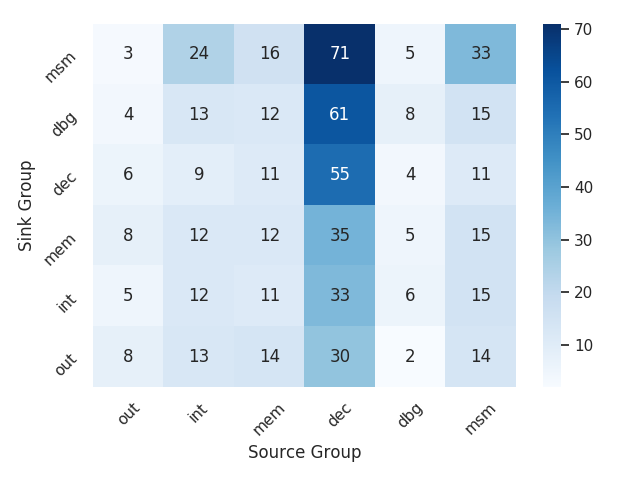
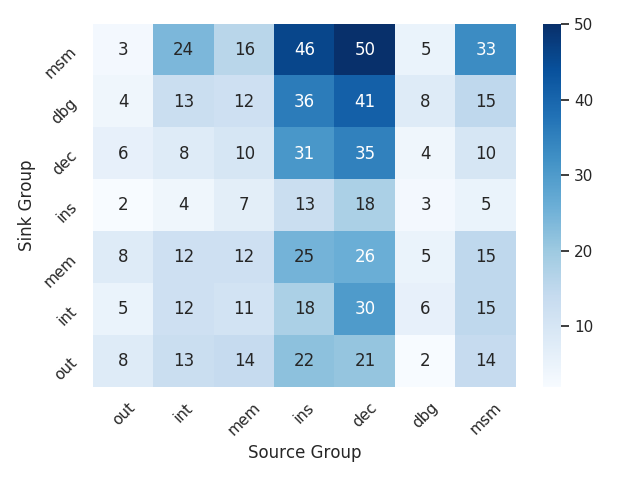
with insns out

diff --git a/notes/heat.py b/notes/heat.py
@@ -11,12 +11,12 @@ sns.set()
 #[6,23,20,10,27,15,17],
 #[18,16,96,40,55,65,78],
 #[14,25,68,31,69,53,64]]
-distro = [[8, 13, 14, 22, 21, 2, 14]
-[5, 12, 11, 18, 30, 6, 15]
-[8, 12, 12, 25, 26, 5, 15]
-[2, 4, 7, 13, 18, 3, 5]
-[6, 8, 10, 31, 35, 4, 10]
-[4, 13, 12, 36, 41, 8, 15]
+distro = [[8, 13, 14, 22, 21, 2, 14],
+[5, 12, 11, 18, 30, 6, 15],
+[8, 12, 12, 25, 26, 5, 15],
+[2, 4, 7, 13, 18, 3, 5],
+[6, 8, 10, 31, 35, 4, 10],
+[4, 13, 12, 36, 41, 8, 15],
 [3, 24, 16, 46, 50, 5, 33]]
 distro.reverse()
 ax = sns.heatmap(distro, cmap='Blues', annot=True)
